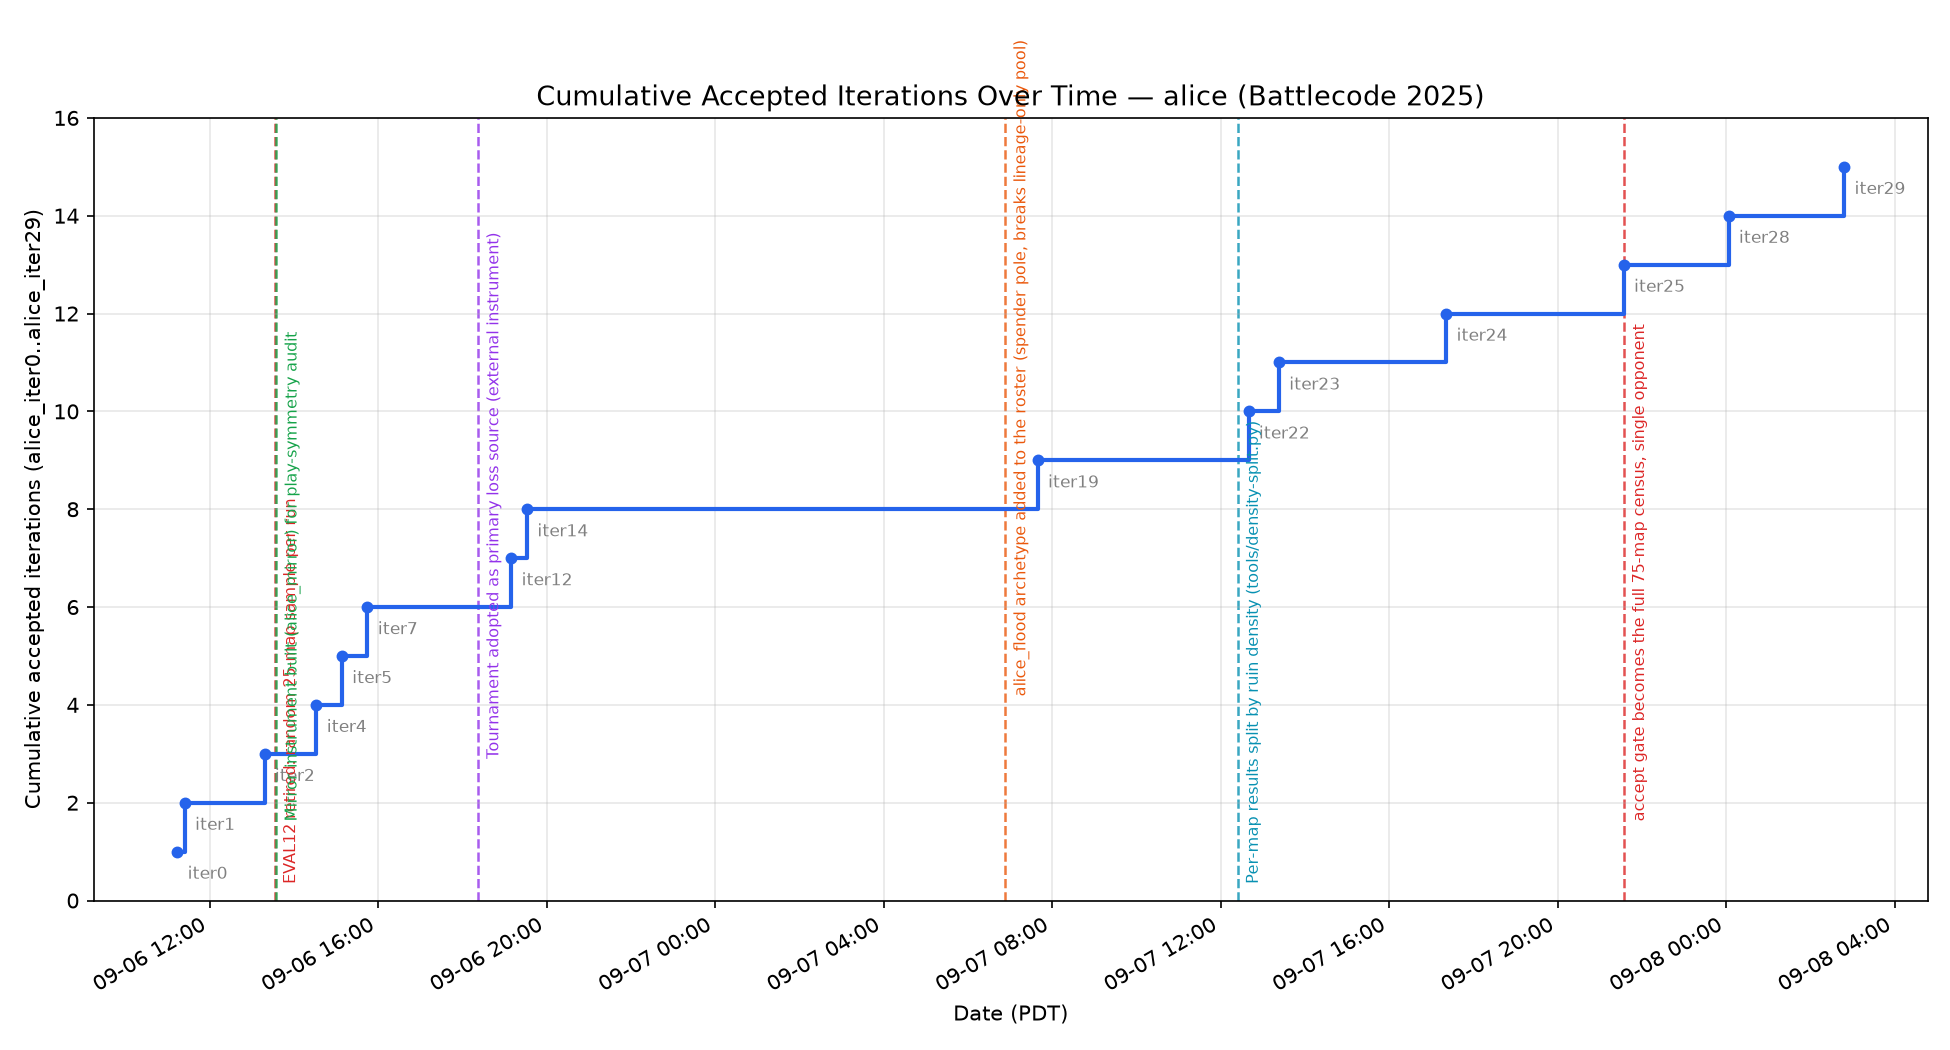
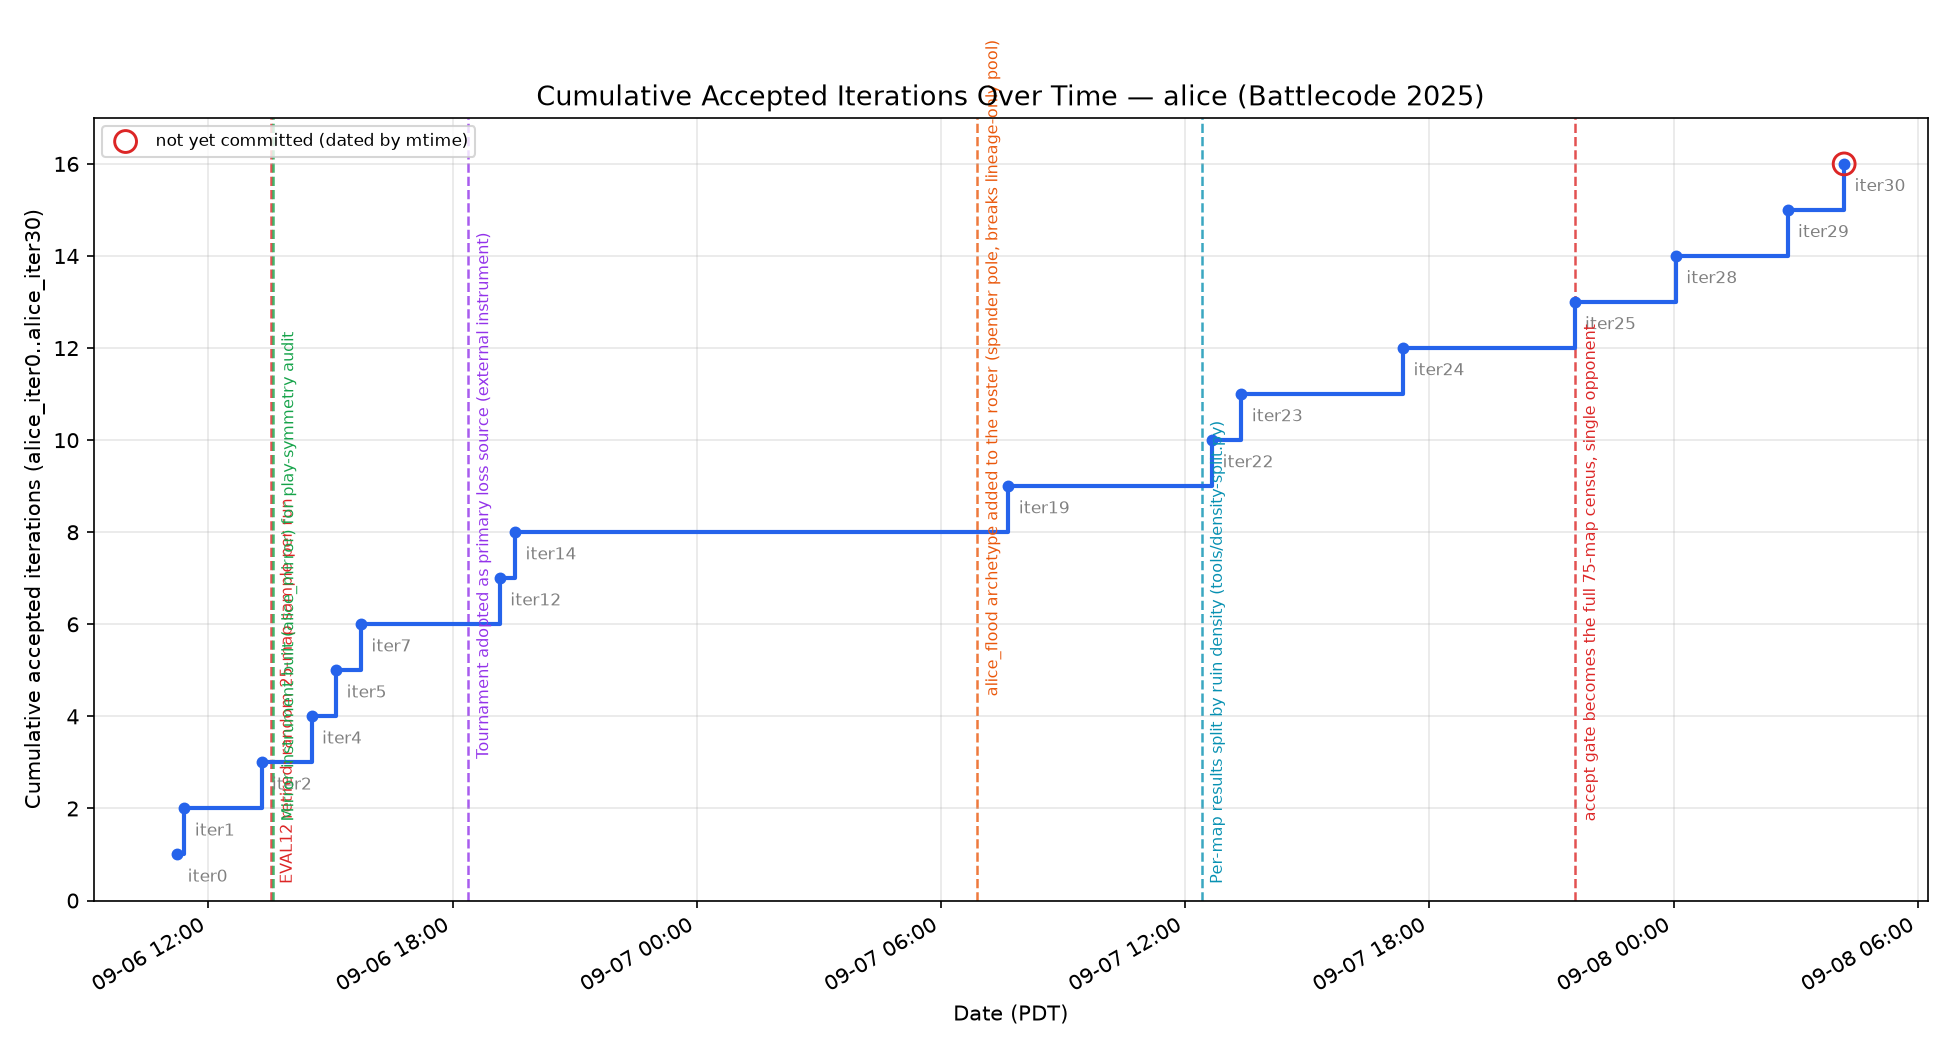
alice: ACCEPT iteration 30 -- 58.0%, +12 net swept, fires on EVERY map
alice_i30b vs alice_iter29, full 75-map census (run 20260908-103815, candidate
as BOT): 87/150, SW 21, SL 9, split 45, net swept +12. 0 exceptions in 150
games (checked on field 5), 0 overruns, margin identity exact (24 = 24). Full
population plus a deterministic engine means +12 is exact. Snapshotted
src/alice_iter30, promoted, compile-checked EXIT=0.

Mechanism: a soldier below half paint walks to the nearest visible tower with
spare paint instead of wandering dry until it starves, pre-empting the role
rather than following it -- wander() already spends the movement every turn, so
an appended walk would have been inert for exactly the reason iteration 25's
refill is inert.

Reach check came out maximally sharp: the set of maps where i30b is identical
to alice_iter29 is EMPTY, 0 of 75 with r2000 ties excluded by construction, so
the mechanism changes the game on every map in the population (iteration 29's
set was 6). That is also why the 9 swept losses are recorded rather than netted
away -- a mechanism touching everything has nowhere to hide.

Explicitly NOT evidence that starvation was the binding constraint: the
starvation figure came from bob games and this census is self-play, so the
mechanism could win here for reasons unrelated to why I lose to bob. The
tournament separates those and iteration 30 will be in the next one.

+12 is a lower bound: i30b discards the commuting soldier's action, a defect
[…]

diff --git a/agents/alice/src/alice_iter30/RobotPlayer.java b/agents/alice/src/alice_iter30/RobotPlayer.java
@@ -1,4 +1,4 @@
-package alice;
+package alice_iter30;
 
 import battlecode.common.*;
 

diff --git a/agents/alice/TRAINING_LOG.md b/agents/alice/TRAINING_LOG.md
@@ -12264,3 +12264,59 @@ The second half of that premise is **wrong**: the mopper has always had a 3-tile
 That does not invalidate iterations 28 and 29, which were measured and won on their own
 census. It does mean the *reason* I gave for them was incomplete, and that a cheaper answer to
 the same problem was one API call away the entire time.
+
+## ACCEPT iteration 30 — 58.0%, +12 net swept, and the mechanism fires on EVERY map
+
+`alice_i30b` vs `alice_iter29`, full 75-map census, run `20260908-103815`, candidate as `BOT`.
+
+| | maps | SW | SL | split | record | net swept |
+|---|---|---|---|---|---|---|
+| `alice_i30b` vs `alice_iter29` | 75 | **21** | 9 | 45 | **87/150 (58.0%)** | **+12** |
+
+- **0 exceptions in 150 games**, checked on field 5 of the `EXC` lines.
+- **0 overruns** anywhere in the run.
+- **Margin identity exact**: wins − losses = 87 − 63 = 24 = 2 × (21 − 9).
+- Full population, deterministic engine: **+12 is exact, not an estimate.**
+
+Every clause of the pre-registered gate holds. Snapshotted `src/alice_iter30`, promoted into
+`src/alice`, compile-checked (`COMPILE_EXIT=0`).
+
+**The mechanism**: a soldier below half paint walks to the nearest visible friendly tower
+holding spare paint, instead of wandering dry until it starves. It pre-empts the role rather
+than following it, because `wander()` already spends the movement every turn — a walk appended
+after the role would have been inert *for exactly the reason iteration 25's refill is inert*.
+
+### The reach check, which came out as sharp as it could
+
+**The set of maps where `alice_i30b` is identical to `alice_iter29` is EMPTY** — zero of 75,
+with r2000 ties excluded by construction. Under the mirror-identity argument that means the
+divert fires, and changes the game, on **every single map in the population**. Compare
+iteration 29, whose corresponding set was 6.
+
+This is the first iteration in this lineage whose mechanism reaches the entire map pool. It
+is also why I take the 9 swept losses seriously rather than netting them away: a mechanism
+that touches everything has nowhere left to hide, and `BunnyGame, Circuit, HungerGames,
+Justice, Restart, UnderTheSea, box, defensetower, starburst` are maps where walking home is
+actively wrong.
+
+### What this result is NOT evidence for
+
+**It is not evidence that starvation was the binding constraint.** It is evidence that this
+change beats iteration 29 on this pool. Those are different claims and today has punished me
+five times for eliding that distinction. The starvation measurement (72-88% of deaths) came
+from *bob* games; the census is self-play; the mechanism could be winning here for a reason
+that has nothing to do with why I lose to bob. **The tournament is the instrument that can
+tell those apart, and iteration 30 will be in the next one.**
+
+**And the measured +12 is a lower bound on the mechanism**, because `i30b` throws away the
+commuting soldier's *action* — a defect I logged before this verdict, precisely so that
+finding it could not look like motivated auditing of a result I liked. `alice_i31a` is the
+one-line fix and is already pre-registered and compile-checked.
+
+### Roster
+
+Standing rule applied: **on every accept, add the snapshot that was current before it.**
+`alice_iter29` joins `progress/roster_extra.txt`, calibrated at **58.0%** by this census at
+zero VM cost. The roster is now 10 rungs, and the two newest sit at 58% and 56% — the first
+time this lineage has had reference points near 50%, where a rung can register movement in
+*either* direction.
